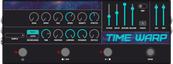
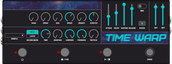
Remove redundant borders from modgui

diff --git a/lv2/dm-TimeWarp.lv2/modgui/stylesheet-dm-timewarp.css b/lv2/dm-TimeWarp.lv2/modgui/stylesheet-dm-timewarp.css
@@ -6,7 +6,8 @@
 .mod-pedal{{{cns}}} .mix-controls {
     padding: 16px;
     border-top-right-radius: 8px;
-    border-right: none !important;
+    border-left: 2px solid #797979;
+    border-bottom: 2px solid #797979;
 }
 
 .mod-pedal{{{cns}}} .midi-controls {
@@ -14,7 +15,9 @@
     flex-direction: row;
     padding: 16px;
     border-bottom-left-radius: 8px;
-    border-right: none;
+    border-top: 2px solid #797979;
+    border-left: 2px solid #797979;
+    border-bottom: 2px solid #797979;
 }
 
 .mod-pedal{{{cns}}} .midi-settings {
@@ -33,7 +36,8 @@
     align-items: center;
     padding: 16px;
     margin-top: 64px;
-    border-bottom: none;
+    border-top: 2px solid #797979;
+    border-right: 2px solid #797979;
     border-top-right-radius: 8px;
 }
 
@@ -41,6 +45,9 @@
     justify-content: end;
     align-items: center;
     padding: 16px;
+    border-top: 2px solid #797979;
+    border-right: 2px solid #797979;
+    border-bottom: 2px solid #797979;
     border-bottom-right-radius: 8px;
     margin-bottom: -2px;
 }
@@ -51,6 +58,7 @@
     justify-content: space-around;
     align-items: center;
     height: 136px;
+    border-top: 2px solid #797979;
     border-bottom-left-radius: 8px;
     border-bottom-right-radius: 8px;
 }
@@ -75,7 +83,6 @@
     flex-direction: row;
     gap: 12px;
     background-color: #211F24;
-    border: 2px solid #797979;
 }
 
 .mod-pedal{{{cns}}} .grain-controls, .buffer-controls, .footswitches {
@@ -114,7 +121,7 @@
     position: relative;
     display: flex;
     flex-direction: column;
-    width: 1118px;
+    width: 1114px;
     height: 426px;
     border-radius: 8px;
 }
